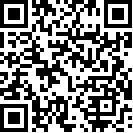
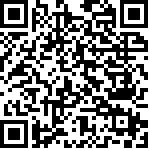
QR compatability by room/time

diff --git a/AttendanceManagement/registration.aspx.cs b/AttendanceManagement/registration.aspx.cs
@@ -20,25 +20,30 @@ namespace AttendanceManagement
         protected void btnSubmit_Click(object sender, EventArgs e)
         {
             
-            if (Request.QueryString["event"] != null)
+            if (Request.QueryString["event"] != null && Request.QueryString["room"] != null)
             {
 
-                String eventid = Request.QueryString["event"];                               
+                //String eventid = Request.QueryString["event"];                               
+                String room = Request.QueryString["room"];
 
                 SqlConnection sqlConnection = new SqlConnection(ConfigurationManager.ConnectionStrings["AttendanceManagement"].ConnectionString);
 
                 SqlCommand sqlCommand = default(SqlCommand);
 
-                sqlCommand = new SqlCommand("uolsp_insert_student_qr_registration", sqlConnection);
+                //sqlCommand = new SqlCommand("uolsp_insert_student_qr_registration", sqlConnection);
+                sqlCommand = new SqlCommand("uolsp_insert_student_registration", sqlConnection);
 
                 sqlCommand.CommandType = CommandType.StoredProcedure;
 
                 SqlDataAdapter myDataAdapter = new SqlDataAdapter(sqlCommand);
                 DataSet myDataSet = new DataSet();
 
-                SqlParameter p1 = new SqlParameter("@sSlot", eventid);
-                SqlParameter p2 = new SqlParameter("@sITAccountName", txtName.Text);
+                //SqlParameter p1 = new SqlParameter("@sSlot", eventid);
+                //SqlParameter p2 = new SqlParameter("@sITAccountName", txtName.Text);
 
+                SqlParameter p1 = new SqlParameter("@sITAccountName", txtName.Text);
+                SqlParameter p2 = new SqlParameter("@sRoom", room);
+                
                 sqlCommand.Parameters.Add(p1);
                 sqlCommand.Parameters.Add(p2);
 
@@ -48,7 +53,7 @@ namespace AttendanceManagement
                     sqlCommand.ExecuteNonQuery();
                     sqlConnection.Close();
 
-                    lblResult.Text = "Congratulations " + txtName.Text + " you've registered successfully for event " + eventid;
+                    lblResult.Text = "Congratulations " + txtName.Text + " you've registered successfully for the event!";
                     panelRegister.Visible = false;
                 }   
                                

diff --git a/AttendanceManagement/handlers/event.ashx.cs b/AttendanceManagement/handlers/event.ashx.cs
@@ -59,7 +59,7 @@ namespace AttendanceManagement.handlers
                         sb.AppendLine("<div class=\"col-md-2\">");
                         sb.AppendLine("<span id=\"btnimg\">");
                         //<img class="featurette-image img-responsive center-block event-image" alt="<%# DataBinder.Eval(Container.DataItem, "vcFirstname")%> <%# DataBinder.Eval(Container.DataItem, "vcSurname")%> Image" src="<%# DataBinder.Eval(Container.DataItem, "ImagePath")%>">
-                        sb.AppendLine("<img class=\"featurette-image img-responsive center-block event-image\" alt=\"" + row["vcFirstname"].ToString() + "\" " + row["vcSurname"].ToString() + "\" Image\" src=\"" + row["ImagePath"].ToString() + "\">");
+                        sb.AppendLine("<img class=\"featurette-image img-responsive center-block event-image\" alt=\"" + row["vcFirstname"].ToString() + " " + row["vcSurname"].ToString() + " Image\" src=\"" + row["ImagePath"].ToString() + "\">");
                         sb.AppendLine("</span>");
                         sb.AppendLine("</div>");
                         

diff --git a/AttendanceManagement/event.aspx.cs b/AttendanceManagement/event.aspx.cs
@@ -26,7 +26,7 @@ namespace AttendanceManagement
 
                 String eventid = Request.QueryString["id"];
                                
-                    LoadQRCode(eventid);
+                    
 
                     Event ev1 = new Event();
                     ev1 = Event.LoadEvent(eventid);
@@ -40,14 +40,16 @@ namespace AttendanceManagement
 
                     lblSlot.Text = ev1.Slot;
 
+                    LoadQRCode(eventid, ev1.Room);
+
             }
 
         }                   
 
-        void LoadQRCode(String eventid)
+        void LoadQRCode(String eventid, String room)
         {
 
-            string url = "http://wsv-att1snd.uol.le.ac.uk/registration.aspx?event=" + eventid;
+            string url = "http://wsv-att1snd.uol.le.ac.uk/registration.aspx?event=" + eventid + "&room=" + room;
 
             QRCodeEncoder encoder = new QRCodeEncoder();
             Bitmap hi = encoder.Encode(url);
